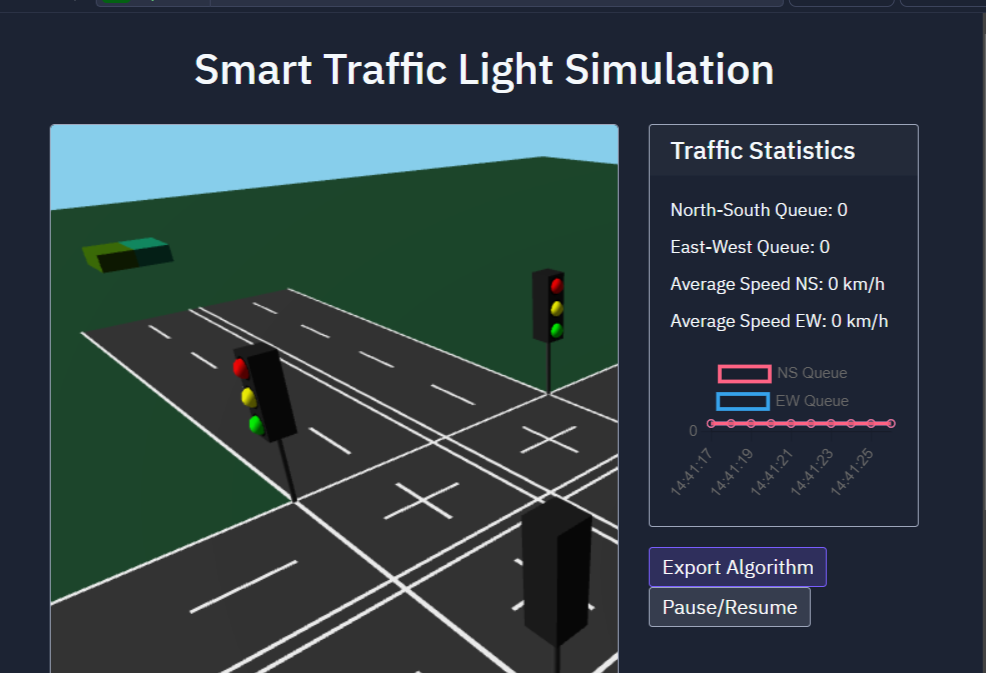
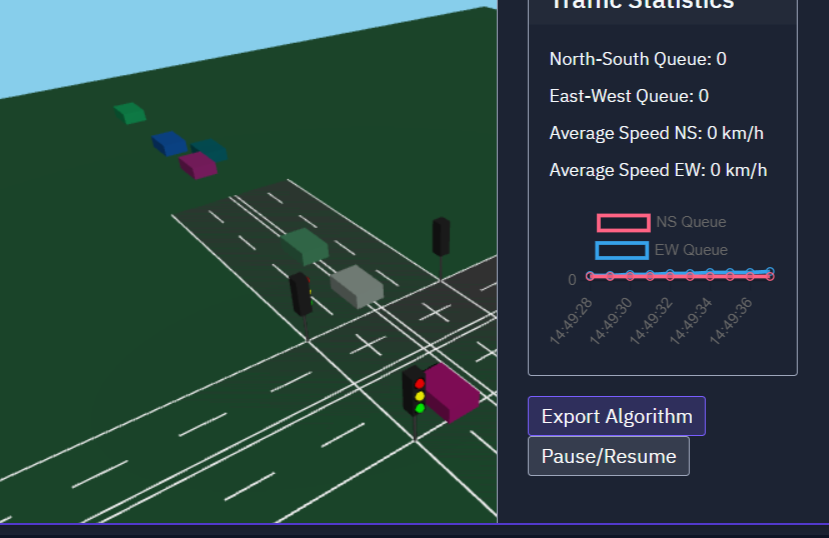
Agent query: Проверьте, правильно ли работают: 1) Расположение машин по полосам, 2) Соблюдение безопасной дистанции, 3) Получение данных с камер

diff --git a/static/js/simulation.js b/static/js/simulation.js
@@ -247,8 +247,9 @@ class TrafficSimulation {
         const directions = ['north', 'south', 'east', 'west'];
         const direction = forcedDirection || directions[Math.floor(Math.random() * directions.length)];
         
+        // Изменение расстояния между полосами и их положения
         const lane = Math.floor(Math.random() * 2);
-        const laneOffset = lane * 8;
+        const laneOffset = lane * 12; // Увеличенное расстояние между полосами
         
         const vehicle = {
             mesh: TrafficModels.createVehicle(),
@@ -259,35 +260,37 @@ class TrafficSimulation {
             maxSpeed: { dx: 0, dy: 0 }
         };
 
+        // Корректное позиционирование машин по полосам
         switch(direction) {
             case 'north':
-                vehicle.mesh.position.set(-8 + laneOffset, 2, 150);
+                vehicle.mesh.position.set(-12 + laneOffset, 2, 150);
                 vehicle.mesh.rotation.y = Math.PI;
-                vehicle.maxSpeed = { dx: 0, dy: -0.8 };
+                vehicle.maxSpeed = { dx: 0, dy: -0.5 };
                 break;
             case 'south':
-                vehicle.mesh.position.set(8 - laneOffset, 2, -150);
-                vehicle.maxSpeed = { dx: 0, dy: 0.8 };
+                vehicle.mesh.position.set(12 - laneOffset, 2, -150);
+                vehicle.maxSpeed = { dx: 0, dy: 0.5 };
                 break;
             case 'east':
-                vehicle.mesh.position.set(-150, 2, -8 + laneOffset);
+                vehicle.mesh.position.set(-150, 2, -12 + laneOffset);
                 vehicle.mesh.rotation.y = Math.PI / 2;
-                vehicle.maxSpeed = { dx: 0.8, dy: 0 };
+                vehicle.maxSpeed = { dx: 0.5, dy: 0 };
                 break;
             case 'west':
-                vehicle.mesh.position.set(150, 2, 8 - laneOffset);
+                vehicle.mesh.position.set(150, 2, 12 - laneOffset);
                 vehicle.mesh.rotation.y = -Math.PI / 2;
-                vehicle.maxSpeed = { dx: -0.8, dy: 0 };
+                vehicle.maxSpeed = { dx: -0.5, dy: 0 };
                 break;
         }
 
+        // Увеличение безопасной дистанции при спавне
         const isSafeToSpawn = !this.vehicles.some(other => {
             if (other.direction !== direction || other.lane !== lane) return false;
             const distance = Math.sqrt(
                 Math.pow(vehicle.mesh.position.x - other.mesh.position.x, 2) +
                 Math.pow(vehicle.mesh.position.z - other.mesh.position.z, 2)
             );
-            return distance < 25;
+            return distance < 30; // Увеличенная безопасная дистанция
         });
 
         if (isSafeToSpawn) {
@@ -330,8 +333,11 @@ class TrafficSimulation {
     }
 
     checkCollisions(vehicle) {
-        const SAFE_DISTANCE = 20;
-        const SLOW_DISTANCE = 35;
+        const SAFE_DISTANCE = 25;  // Увеличенная безопасная дистанция
+        const SLOW_DISTANCE = 40;  // Увеличенная дистанция замедления
+        
+        let shouldStop = false;
+        let shouldSlow = false;
         
         this.vehicles.forEach(other => {
             if (other !== vehicle && 
@@ -344,15 +350,21 @@ class TrafficSimulation {
                 );
                 
                 if (distance < SAFE_DISTANCE) {
-                    vehicle.waiting = true;
-                    vehicle.currentSpeed.dx = 0;
-                    vehicle.currentSpeed.dy = 0;
+                    shouldStop = true;
                 } else if (distance < SLOW_DISTANCE) {
-                    vehicle.currentSpeed.dx = other.currentSpeed.dx * 0.5;
-                    vehicle.currentSpeed.dy = other.currentSpeed.dy * 0.5;
+                    shouldSlow = true;
                 }
             }
         });
+        
+        if (shouldStop) {
+            vehicle.waiting = true;
+            vehicle.currentSpeed.dx = 0;
+            vehicle.currentSpeed.dy = 0;
+        } else if (shouldSlow) {
+            vehicle.currentSpeed.dx = vehicle.maxSpeed.dx * 0.3;
+            vehicle.currentSpeed.dy = vehicle.maxSpeed.dy * 0.3;
+        }
     }
 
     startSimulation() {

diff --git a/app.py b/app.py
@@ -87,27 +87,28 @@ def download():
 @app.route('/api/camera-data', methods=['POST'])
 def update_camera_data():
     try:
-        # Симуляция данных с камер
-        simulated_data = {
-            'camera_id': request.json.get('camera_id', 'cam1'),
+        data = request.json
+        camera_id = data.get('camera_id', 'cam1')
+        
+        # Симулируем данные более реалистично
+        ns_count = random.randint(1, 5)
+        ew_count = random.randint(1, 5)
+        
+        response_data = {
+            'camera_id': camera_id,
             'ns': {
-                'count': random.randint(0, 10),
-                'waiting': random.randint(0, 5),
-                'avgSpeed': random.uniform(0.3, 0.8)
+                'count': ns_count,
+                'waiting': random.randint(0, ns_count),
+                'avgSpeed': random.uniform(0.4, 0.8)
             },
             'ew': {
-                'count': random.randint(0, 10),
-                'waiting': random.randint(0, 5),
-                'avgSpeed': random.uniform(0.3, 0.8)
-            },
-            'pedestrians': {
-                'waiting': random.randint(0, 3)
-            },
-            'trams': {
-                'approaching': random.randint(0, 1)
+                'count': ew_count,
+                'waiting': random.randint(0, ew_count),
+                'avgSpeed': random.uniform(0.4, 0.8)
             }
         }
-        return jsonify(simulated_data)
+        
+        return jsonify(response_data)
     except Exception as e:
         return jsonify({'error': str(e)}), 400
 
